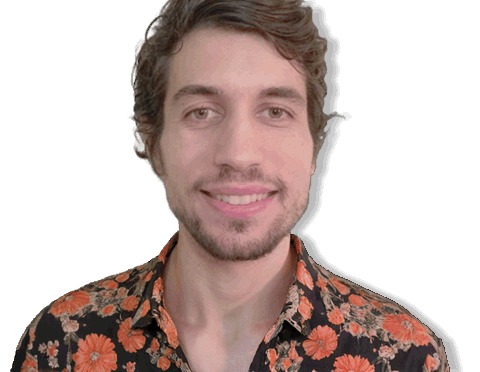
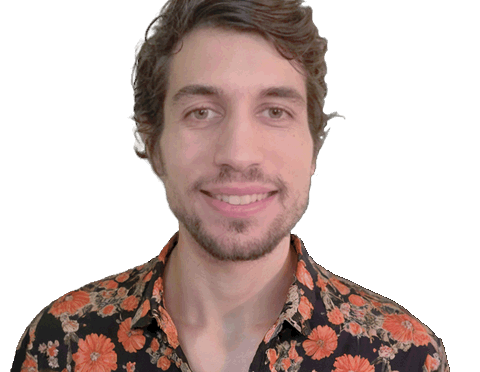
New costumes

Changed region(s): [[0.5938, 0.0, 0.7188, 0.7392], [0.8125, 0.7984, 0.9688, 1.0], [0.7188, 0.7392, 0.8125, 0.7984]]

diff --git a/index.js b/index.js
@@ -25,8 +25,6 @@ d.addEventListener('DOMContentLoaded', (e) => {
     $qModeBkgIntro = d.querySelector('#quote-mode-bkg-intro'),
     $mobileQModeBkgIntro = d.querySelector('#mobile-quote-mode-bkg-intro'),
     $matrixProfPic = d.querySelector('#matrix'),
-    $pic1 = d.querySelector('#profile-pic').src,
-    $pic2 = 'profile-pic-2.png',
     $quoteText = d.querySelector('#presentacion'),
     $typing = d.querySelector('#typing'),
     $musicToggle = d.querySelector('#music-toggle'),
@@ -59,6 +57,17 @@ d.addEventListener('DOMContentLoaded', (e) => {
   $musicBtnAppearance.volume = 0.4;
 
   //Variables y constantes de uso global:
+  const profPics = [
+    'profile-pic.png',
+    'profile-pic-2.png',
+    'profile-pic-3.png',
+    'profile-pic-4.png',
+    'profile-pic-5.png',
+    'profile-pic-6.png',
+  ];
+  let profPicPos = Number(localStorage.getItem('profPicCloth')) || 0;
+  $imgProfPic.src = profPics[profPicPos];
+  console.log('Pos de img inicial', profPicPos);
   let understoodClicked = false;
   let lastClickTime = 0;
   let bunnyHandlerUniqueCall = false;
@@ -67,8 +76,6 @@ d.addEventListener('DOMContentLoaded', (e) => {
   const textoHeader = $header.querySelector('h3').textContent;
   const textoPresentacion = $cajaPresentacion.querySelector('p').textContent;
   let fadeInterval = 0;
-  //   let autoImginterval = 0;
-  //   console.log('Auto Image interval INITIALIZED!!!');
   let quoteModeIsOn = false;
   let quoteModeFirstLoad = true;
   let imgPosition = 0;
@@ -189,11 +196,8 @@ d.addEventListener('DOMContentLoaded', (e) => {
       $disclaimer.style.display = 'inline-block';
       $changeButton.style.pointerEvents = 'none';
       matrix2Bg(true);
-      $header.style.transition = 'none'; //FALTA: Al volver devolver estilo
-      //   clearInterval(autoImginterval);
-      //   console.log('auto img interval CLEARED!');
+      $header.style.transition = 'none';
       $imgProfPic.style.opacity = 0;
-      //   $msjeCondicional.style.display = 'none';
       $cajaCentral.style.opacity = 0;
       $quoteModeGif.style.display = 'block';
 
@@ -587,11 +591,14 @@ d.addEventListener('DOMContentLoaded', (e) => {
   //Funciones asignadas al changeButton
   const handleChange = () => {
     if (!quoteModeIsOn) {
-      if ($imgProfPic.src.includes($pic1)) {
-        $imgProfPic.src = $pic2;
+      if (profPicPos === profPics.length - 1) {
+        profPicPos = 0;
       } else {
-        $imgProfPic.src = $pic1;
+        profPicPos++;
       }
+      $imgProfPic.src = profPics[profPicPos];
+      localStorage.setItem('profPicCloth', profPicPos.toString());
+      console.log('prof pic pos', profPicPos);
     } else {
       //Iteracion imagenes
       if (imgPosition < images.length - 1) {

diff --git a/profile-pic-2.htm b/profile-pic-2.htm
@@ -1,0 +1,12 @@
+<!DOCTYPE html PUBLIC "-//W3C//DTD XHTML 1.0 Transitional//EN"
+"http://www.w3.org/TR/xhtml1/DTD/xhtml1-transitional.dtd">
+<!-- saved from url=(0014)about:internet -->
+<html xmlns="http://www.w3.org/1999/xhtml">
+<head>
+<title>profile-pic-2</title>
+<meta http-equiv="Content-Type" content="text/html; charset=utf-8" />
+<!--Fireworks CS6 Dreamweaver CS6 target.  Created Wed May 29 16:37:11 GMT-0300 2024-->
+</head>
+<body bgcolor="#ffffff">
+<img name="profilepic2" src="profile-pic-2.png" width="480" height="372" id="profilepic2" alt="" /></body>
+</html>
